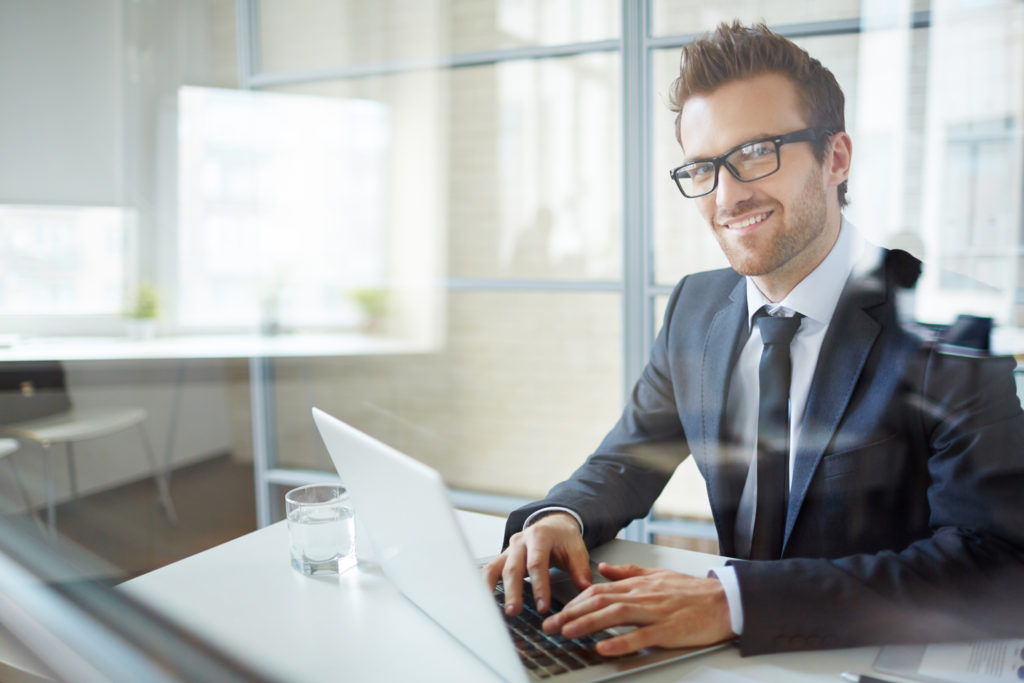
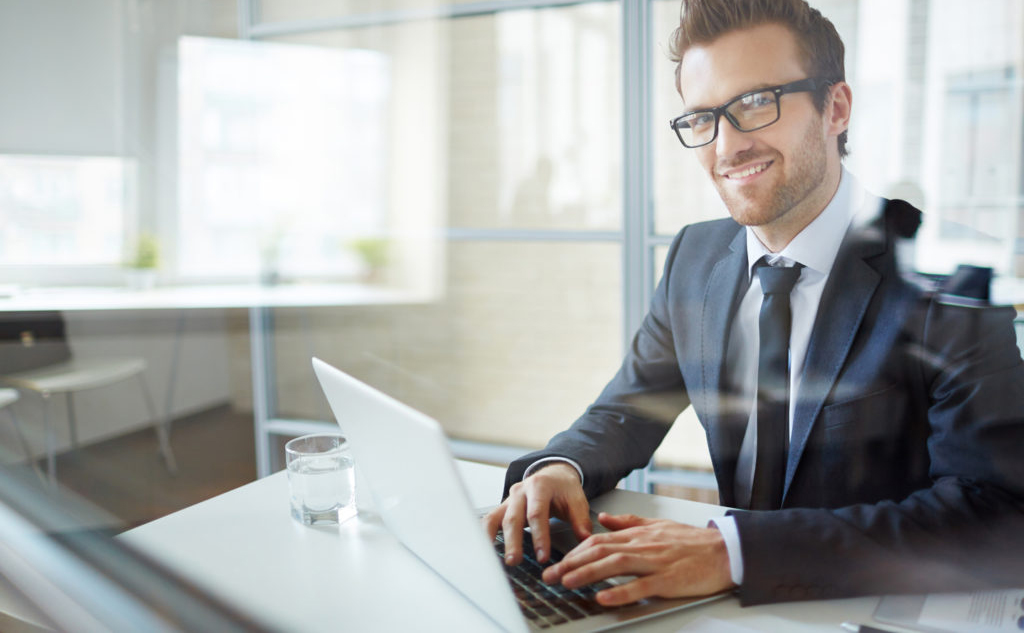
Created services.html

diff --git a/HTML-CSS/TutsPlus-Tutorial/Final Project/Black + White/services.html b/HTML-CSS/TutsPlus-Tutorial/Final Project/Black + White/services.html
@@ -1,0 +1,67 @@
+<!DOCTYPE html>
+<html lang="en">
+	<head>
+		<link rel="stylesheet" href="css/reset.css">
+		<link rel="stylesheet" href="css/style.css">
+		<link rel="stylesheet" href="css/text.css">
+		<meta charset="UTF-8">
+		<title>Black + White</title>
+	</head>
+	<body class="services">
+		
+		<div class="wrap">
+			<header>
+				<h1 class="left"><a href="index.html" class="black"><strong>Black + </strong>White</a></h1>
+				<nav class="right">
+					<ul>
+						<li><a href="index.html">home</a></li>
+						<li><a href="services.html" class="active black">our services</a></li>
+						<li><a href="#">how we work</a></li>
+						<li><a href="#">testimonials</a></li>
+						<li><a href="work.html">work examples</a></li>
+					</ul>
+				</nav>
+			</header>
+
+			<div class="content">
+				<div class="wrap-75 left">
+					<div></div>		<!-- 	PHOTO  -->
+
+					<div>		<!-- H2 AND TEXT -->
+						<h3>Our services<span class="grey"> from one amazing thing to another, we do it all</span></h3>
+
+
+						<div class="description left">
+							<p>Lorem ipsum dolor sit amet, consectetur adipisicing elit. Architecto nulla adipisci nostrum libero similique harum rem sed incidunt, officia a est expedita possimus, distinctio dicta enim omnis. Quibusdam, dolores, quidem.</p>
+							<p>Lorem ipsum dolor sit amet, consectetur adipisicing elit. Eius eligendi omnis voluptate consequatur? Sunt cupiditate ratione dolore, eligendi aliquam, libero odit fugiat debitis ut labore illo vel minima obcaecati molestiae.Lorem ipsum dolor sit amet, consectetur adipisicing elit.</p><p>Fugiat voluptates facere nemo vitae sint doloribus temporibus, earum eveniet magni mollitia eligendi debitis id harum veritatis in error nihil deserunt? Quibusdam?</p>
+						</div>
+						<div class="description right">
+							<p>Lorem ipsum dolor sit amet, consectetur adipisicing elit. Architecto nulla adipisci nostrum libero similique harum rem sed incidunt, officia a est expedita possimus, distinctio dicta enim omnis. Quibusdam, dolores, quidem.</p>
+							<p>Lorem ipsum dolor sit amet, consectetur adipisicing elit. Eius eligendi omnis voluptate consequatur? Sunt cupiditate ratione dolore, eligendi aliquam.</p>
+						</div>
+					</div>
+				</div>
+
+				<div class="wrap-25 right white">
+					<aside>
+						<h3>Select a service</h3>
+						<ul>
+							<li>Some amazing service</li>
+							<li>And another one</li>
+							<li>A service noone else offers</li>
+							<li>Some amazing service</li>
+							<li>And another one</li>
+							<li>A service noone else offers</li>
+						</ul>
+					</aside>
+				</div>
+			</div>
+
+			<footer>
+				<p><strong>black+white</strong><span class="grey"> themes via themeforest</span></p>
+			</footer>
+
+		</div>
+
+	</body>
+</html>

diff --git a/HTML-CSS/TutsPlus-Tutorial/Final Project/Black + White/work.html b/HTML-CSS/TutsPlus-Tutorial/Final Project/Black + White/work.html
@@ -11,7 +11,7 @@
 		
 		<div class="wrap">
 			<header>
-				<h1 class="left"><a href="index.html" class="black"><strong>Black</strong> + White</a></h1>
+				<h1 class="left"><a href="index.html" class="black"><strong>Black + </strong>White</a></h1>
 				<nav class="right">
 					<ul>
 						<li><a href="index.html">home</a></li>
@@ -24,17 +24,17 @@
 			</header>
 
 			<div class="content">
-				<div class="text left">
+				<div class="wrap-50 left">
 					<div class="img-previous"><a href="#" class="white">Previous</a></div>
-						<div class="title">Work example 1<span class="grey">And a very brief description of the work in large bold letters followed by</span></div>
+						<h3>Work example 1<span class="grey">And a very brief description of the work in large bold letters followed by</span></h3>
 						<div class="description">
 							<p>Lorem ipsum dolor sit amet, consectetur adipisicing elit. Architecto nulla adipisci nostrum libero similique harum rem sed incidunt, officia a est expedita possimus, distinctio dicta enim omnis. Quibusdam, dolores, quidem.</p>
 							<p>Lorem ipsum dolor sit amet, consectetur adipisicing elit. Eius eligendi omnis voluptate consequatur? Sunt cupiditate ratione dolore, eligendi aliquam, libero odit fugiat debitis ut labore illo vel minima obcaecati molestiae.Lorem ipsum dolor sit amet, consectetur adipisicing elit. Fugiat voluptates facere nemo vitae sint doloribus temporibus, earum eveniet magni mollitia eligendi debitis id harum veritatis in error nihil deserunt? Quibusdam?</p>
 					</div>
 				</div>
-				<div class="text left second">
+				<div class="wrap-50 left second">
 					<div class="img-next"><a href="#" class="white">Next</a></div>
-						<div class="title">Work example 2<span class="grey">And a very brief description of the work in large bold letters followed by</span></div>
+						<h3>Work example 2<span class="grey">And a very brief description of the work in large bold letters followed by</span></h3>
 						<div class="description">
 							<p>Lorem ipsum dolor sit amet, consectetur adipisicing elit. Illo enim repellat voluptatum, animi excepturi, ad. Voluptatibus natus eligendi harum nemo excepturi commodi est, voluptatem ipsa eum totam voluptates, deserunt culpa?</p>
 							<p>Lorem ipsum dolor sit amet, consectetur adipisicing elit. Corporis expedita, id in dicta repellendus sed, eaque provident illum. Asperiores repudiandae perferendis veniam enim vel quae, laborum expedita a quisquam quasi.Lorem ipsum dolor sit amet, consectetur adipisicing elit. Doloremque nostrum ipsum vitae quaerat, veritatis, totam ab autem, fugit natus cum possimus! Perferendis aspernatur maiores a nihil, quibusdam ipsam officia temporibus!</p>

diff --git a/HTML-CSS/TutsPlus-Tutorial/Final Project/Black + White/css/style.css b/HTML-CSS/TutsPlus-Tutorial/Final Project/Black + White/css/style.css
@@ -37,6 +37,22 @@ a {
 	float: right;
 }
 
+.wrap-25 {
+	width: 24%;
+}
+
+.wrap-35 {
+	width: 37%;
+}
+
+.wrap-50 {
+	width: 49%;
+}
+
+.wrap-75 {
+	width: 75%;
+}
+
 .wrap {
 	width: 70%;
 	min-width: 1080px;
@@ -48,7 +64,15 @@ header h1 a{
 	font-weight: 400;
 	font-size: 40px;
 	letter-spacing: -1px;
+	/*position: relative;*/
 }
+
+/*header h1 span {
+	font-size: 25px;
+	position: absolute;
+	bottom: 5px;
+	font-weight: bold;
+}*/
 
 nav ul {
 	height: 60px;
@@ -82,7 +106,6 @@ nav li a {
 	width: 75%;
 	height: inherit;
 	background-size: cover;
-	background-position: 0 -85px;
 }
 
 .slider p {
@@ -117,32 +140,28 @@ nav li a {
 	clear: both;
 	min-height: 300px;
 	overflow: hidden;
-	border-bottom: 1px solid #d1d1d1;
 }
 
 .second {
 	margin-left: 2%;
 }
 
-.text {
-	width: 37%;
-}
-
-.title {
+h3 {
 	text-transform: lowercase;
-	padding-bottom: 30px;
+	padding-bottom: 25px;
 	border-bottom: 1px solid #d1d1d1;
 	font-size: 30px;
 	line-height: 1em;
+	font-weight: 100;
 }
 
-.title:first-child {
+h3:first-child {
 	margin-right: 15px;
 }
 
 .description {
 	padding-right: 50px;
-	padding-top: 20px;
+	padding-top: 25px;
 	line-height: 25px;
 }
 
@@ -159,9 +178,6 @@ nav li a {
 }
 
 /* ASIDE */
-.aside {
-	width: 24%;
-}
 
 aside {
 	position: relative;
@@ -207,6 +223,7 @@ aside p {
 /* END CONTENT*/
 /* FOOTER */
 footer {
+	border-top: 1px solid #d1d1d1;
 	padding-top: 15px;
 }
 /* END FOOTER */
@@ -214,12 +231,8 @@ footer {
 
 /************************************** W O R K ***************************************/
 
-.work .content {
+.work .content, .services .content {
 	padding-top: 0;
-}
-
-.work .text {
-	width: 49%;
 }
 
 .img-previous {
@@ -228,7 +241,6 @@ footer {
 	height: 350px;
 	background-repeat: no-repeat;
 	background-size: cover;
-	background-position: 0 -40px;
 	position: relative;
 }
 
@@ -259,16 +271,45 @@ footer {
 	text-transform: uppercase;
 }
 
-.work .title {
+.work h3 {
 	margin-right: 0;
 	line-height: 1.1em;
-	margin-top: 27px;
+	margin-top: 26px;
 }
 
-.work .title span {
+.work h3 span {
 	display: block;
 }
 
 /**************************** S E R V I C E S ******************************/
+.services .wrap-75>div:first-child {
+	background: url(../img/fish-jumping.jpg) no-repeat;
+	height: 350px;
+	background-size: cover;
+	margin-bottom: 30px;
+}
 
-.services
+.services .description {
+	width: 44%;
+	padding-right: 40px;
+}
+
+.services .wrap-25 {
+	min-height: 770px;
+	background: #2c2c2c;
+}
+
+.services aside {
+	padding: 15px;
+}
+
+.services aside h3 {
+	border-bottom: none;
+	padding-bottom: 0;
+}
+
+.services aside li {
+  line-height: 35px;
+  font-size: 17px;
+  color: #8d8d8d;
+}

diff --git a/HTML-CSS/TutsPlus-Tutorial/Final Project/Black + White/index.html b/HTML-CSS/TutsPlus-Tutorial/Final Project/Black + White/index.html
@@ -11,7 +11,7 @@
 		
 		<div class="wrap">
 			<header>
-				<h1 class="left"><a href="index.html" class="black"><strong>Black</strong> + White</a></h1>
+				<h1 class="left"><a href="index.html" class="black"><strong>Black + </strong>White</a></h1>
 				<nav class="right">
 					<ul>
 						<li><a href="index.html" class="active black">home</a></li>
@@ -33,9 +33,9 @@
 
 			<div class="content">
 				
-				<div class="text left">
+				<div class="wrap-35 left">
 					<div>
-						<div class="title">Services we offer</div>
+						<h3>Services we offer</h3>
 						<div class="description">
 							<p>Lorem ipsum dolor sit amet, consectetur adipisicing elit. Architecto nulla adipisci nostrum libero similique harum rem sed incidunt, officia a est expedita possimus, distinctio dicta enim omnis. Quibusdam, dolores, quidem.</p>
 							<p>Lorem ipsum dolor sit amet, consectetur adipisicing elit. Eius eligendi omnis voluptate consequatur? Sunt cupiditate ratione dolore, eligendi aliquam, libero odit fugiat debitis ut labore illo vel minima obcaecati molestiae.Lorem ipsum dolor sit amet, consectetur adipisicing elit. Fugiat voluptates facere nemo vitae sint doloribus temporibus, earum eveniet magni mollitia eligendi debitis id harum veritatis in error nihil deserunt? Quibusdam?</p>
@@ -43,9 +43,9 @@
 						<div class="btn left"><a href="services.html">Read more</a></div>
 					</div>
 				</div>
-				<div class="text left second">
+				<div class="wrap-35 left second">
 					<div>
-						<div class="title">How we work</div>
+						<h3>How we work</h3>
 						<div class="description">
 							<p>Lorem ipsum dolor sit amet, consectetur adipisicing elit. Illo enim repellat voluptatum, animi excepturi, ad. Voluptatibus natus eligendi harum nemo excepturi commodi est, voluptatem ipsa eum totam voluptates, deserunt culpa?</p>
 							<p>Lorem ipsum dolor sit amet, consectetur adipisicing elit. Corporis expedita, id in dicta repellendus sed, eaque provident illum. Asperiores repudiandae perferendis veniam enim vel quae, laborum expedita a quisquam quasi.Lorem ipsum dolor sit amet, consectetur adipisicing elit. Doloremque nostrum ipsum vitae quaerat, veritatis, totam ab autem, fugit natus cum possimus! Perferendis aspernatur maiores a nihil, quibusdam ipsam officia temporibus!</p>
@@ -55,7 +55,7 @@
 					</div>
 				</div>
 				
-				<div class="aside right">
+				<div class="wrap-25 right">
 					<aside>
 						<blockquote>
 							Clean, elegant typography matched with sharp lines and precise spacing leads to a professional look and feel.

diff --git a/HTML-CSS/TutsPlus-Tutorial/Final Project/Black + White/css/text.css b/HTML-CSS/TutsPlus-Tutorial/Final Project/Black + White/css/text.css
@@ -35,9 +35,9 @@ h2 {
   font-size: 23px;
 }
 
-h3 {
+/*h3 {
   font-size: 21px;
-}
+}*/
 
 h4 {
   font-size: 19px;
@@ -59,7 +59,7 @@ ol {
 }
 
 ul {
-  list-style: disc;
+  list-style: square;
 }
 
 li {
@@ -71,7 +71,7 @@ dl,
 hr,
 h1,
 h2,
-h3,
+/*h3,*/
 h4,
 h5,
 h6,
